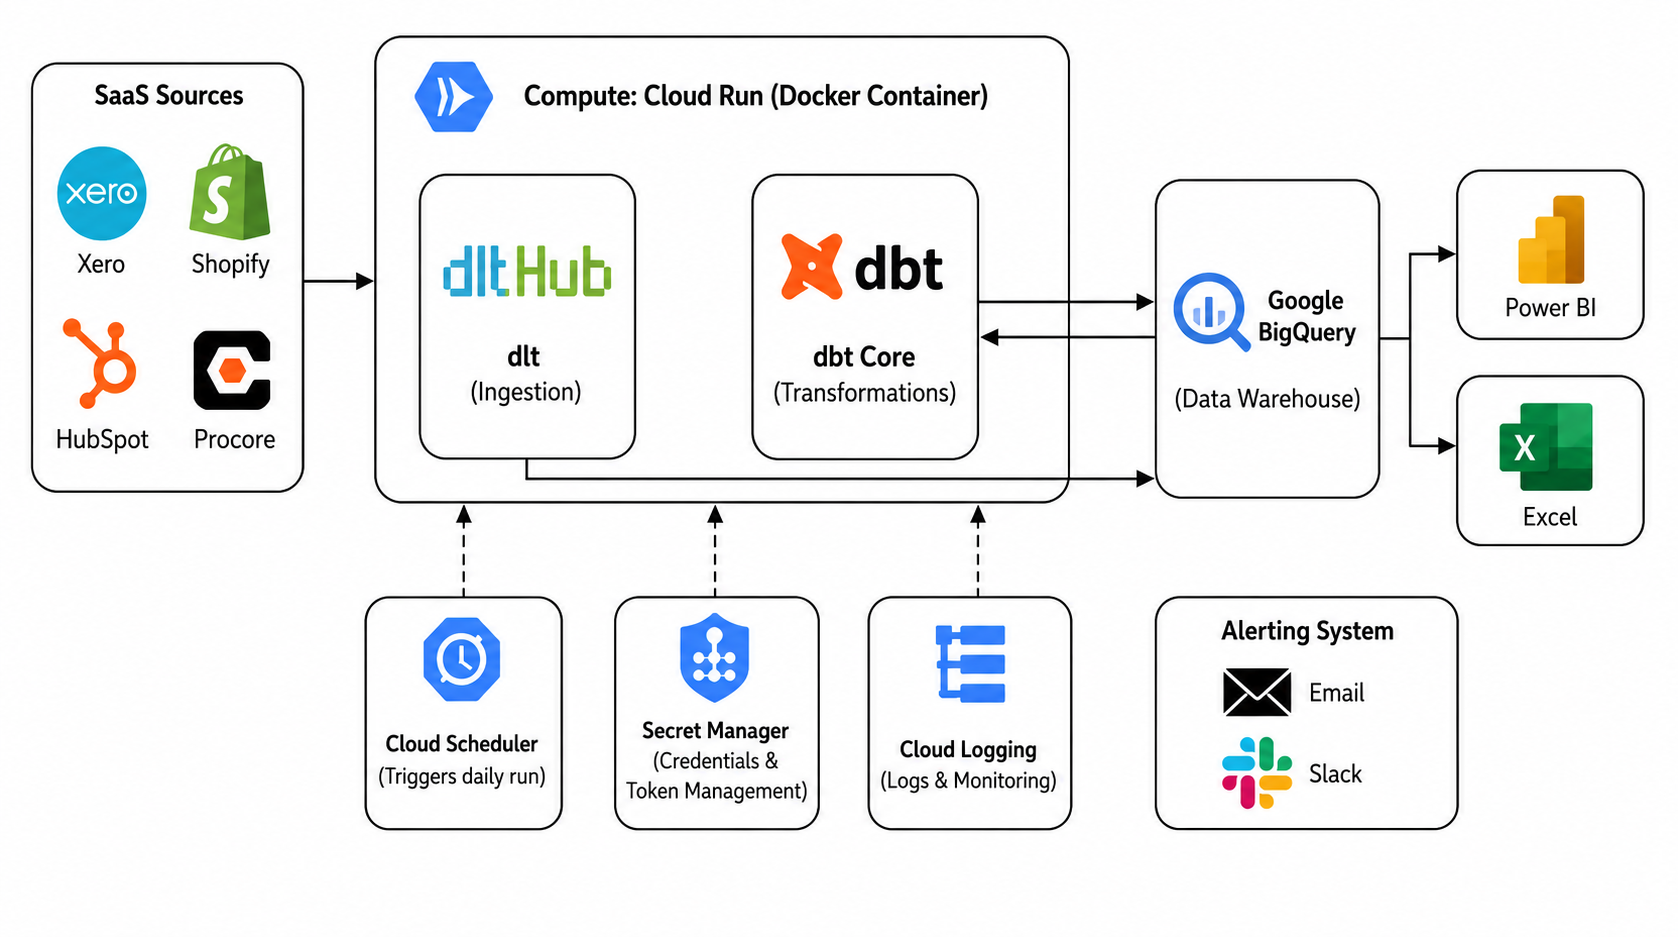
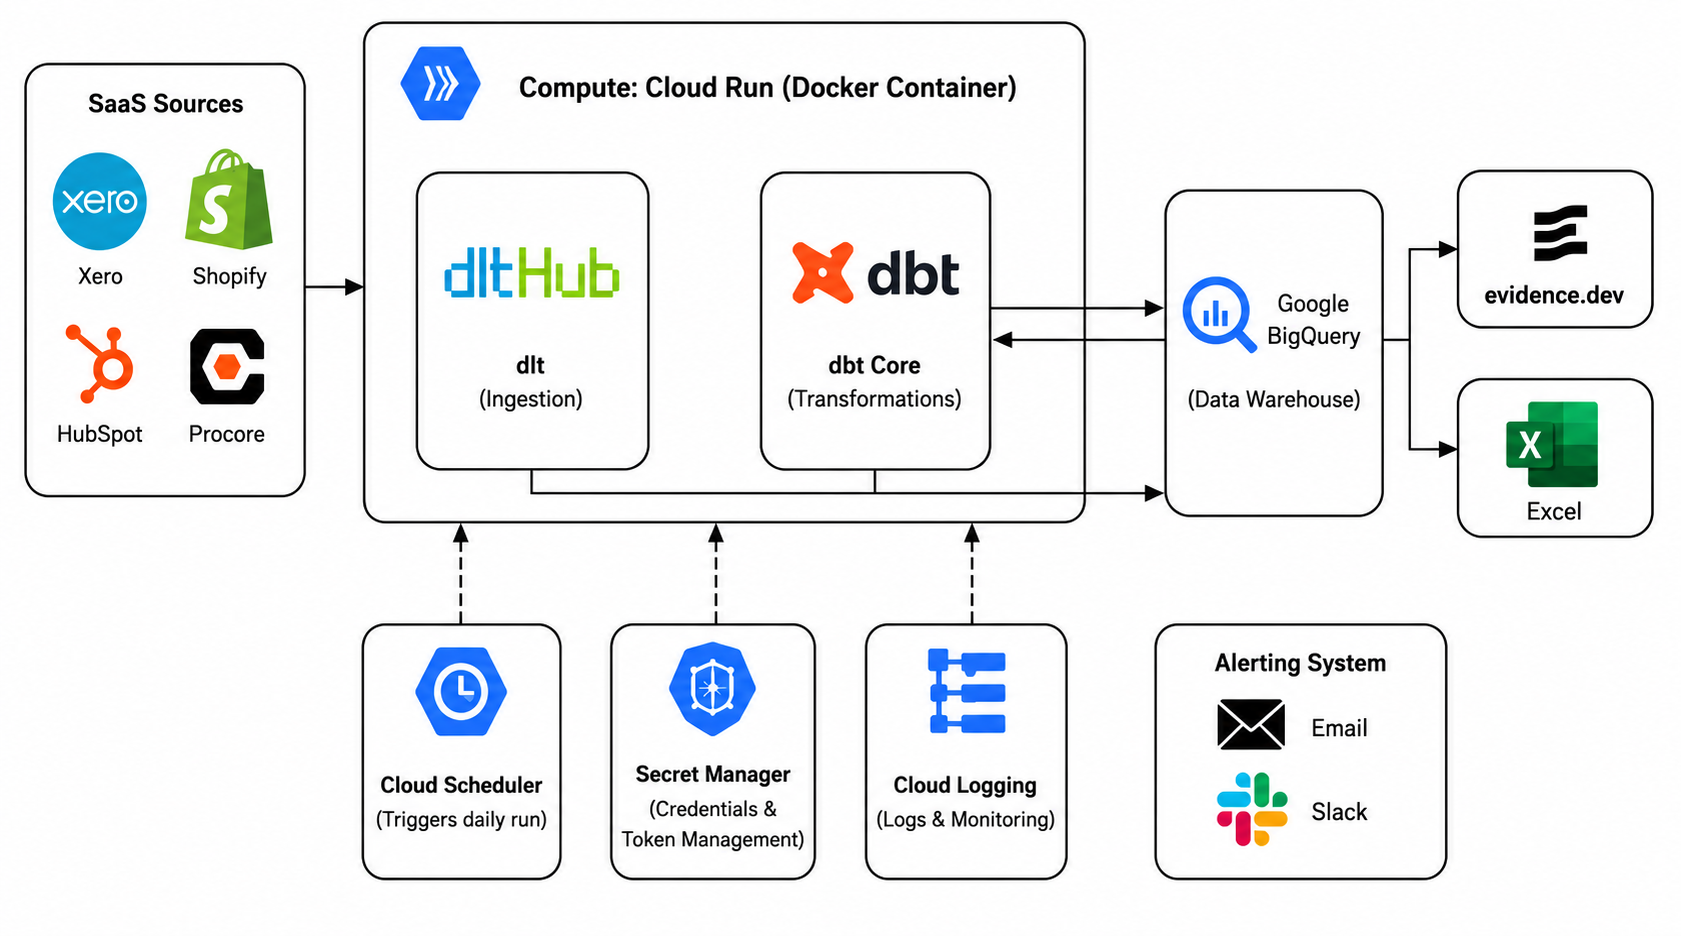
update: readme

diff --git a/README.md b/README.md
@@ -1,46 +1,78 @@
-# Multi-Source SaaS Serverless ELT Pipeline & BI Dashboard
+# Multi-Source SaaS ELT Pipeline & BI Dashboard
 
-A production-ready, parallel ingestion, transformation, and BI dashboard pipeline for **HubSpot**, **Xero**, **Shopify**, and **Procore** data powered by `dlt`, `dbt Core`, and `Evidence.dev`.
+A code-first data pipeline integrating **HubSpot**, **Xero**, **Shopify**, and **Procore** into **Google BigQuery** (Cloud) and **PostgreSQL** (Local), modeled with `dbt Core` and visualized using `Evidence.dev`.
 
-![DLT Pipeline Architecture](dtl-pipeline-multi-saas.png)
-
----
-
-## 🚀 Overview
-
-A cost-effective serverless ELT solution that centralizes client data from SaaS APIs into **Google BigQuery** (Production) or **PostgreSQL** (Local Development), eliminating expensive monthly third-party connector subscriptions (e.g. Fivetran, Stitch).
-
-### Core Capabilities
-* **Zero Third-Party Fees**: Uses open-source `dlt` for schema evolution and parallel API ingestion.
-* **In-Database SQL Transformations**: Orchestrates post-load `dbt Core` builds to clean raw data and populate downstream reporting marts.
-* **Embedded BI Dashboard**: Includes `Evidence.dev` markdown-based analytical cockpit with zero-latency custom slicers and dynamic cross-filtering.
-* **OAuth 2.0 Self-Rotation**: Automatically refreshes and persists Xero and Procore OAuth tokens to `.dlt/secrets.toml` and GCS Token Vault.
-* **Preflight Connection Resilience**: Validates credentials before running, gracefully skipping failing sources to keep other ingestions online.
-* **Slack & Email Observability**: Automated notifications with row counts, dbt test results, and critical failure alerts.
-* **GCP Serverless Deployment**: Containerized with Docker on GCP Cloud Run Jobs, triggered on-demand or via Cloud Scheduler.
+![Pipeline Architecture](docs/assets/pipeline_architecture.png)
 
 ---
 
-## 📁 Repository Structure
+## Operational Context
+
+### The Fictional Business
+A modular storage, millwork, and outdoor-structures manufacturer that sells kits online through Shopify, sells to builders and dealers through HubSpot, and installs larger orders on site.
+
+### System Roles
+* **Shopify**: Direct-to-consumer (D2C) e-commerce storefront for modular storage and joinery kits.
+* **HubSpot CRM**: Inbound pipeline, quotes, and contract management for regional builders and dealer networks.
+* **Procore (Field Delivery & Transition to Wrike)**: 
+  Originally adopted to manage onsite installation delivery. Because Procore is built for general contractors, it is heavy for a company whose real work is production, marketing launches, and install scheduling. The company is actively migrating project operations to Wrike.
+  * **Why active data remains in Procore**: Active install jobs stay in Procore until closeout because moving in-flight RFIs, submittals, and change orders mid-project introduces operational risk.
+  * **Closed projects**: Remain in Procore as the historical system of record for warranty claims and audit trails.
+  * **New projects**: Scheduled and launched in Wrike.
+* **Xero**: Financial system of record for progress billings, accounts receivable aging, and invoice payment collections.
+
+### Customer and Project Mapping
+Because SaaS tools generate independent primary keys, `seed_project_mapping.csv` functions as a lookup table:
+It maps the real customer accounts extracted from Xero (such as *Ridgeway University* and *Hamilton Smith Ltd*) to their corresponding Procore installation codes (*PRJ-1000*, *PRJ-1001*) and operational business units.
+
+```text
+HubSpot Deal (Contract Booking)
+       │
+       ▼
+Procore Project (Field Delivery & Milestones)
+       │
+       ▼
+Xero Invoices (Progress Billings & Cash Collection)
+       │
+       ▼
+Shopify Orders (Parallel D2C Channel)
+```
+
+### Data Sources & Coverage
+
+| System | Role in Business | Extracted Entities | Data Origin |
+| :--- | :--- | :--- | :--- |
+| **HubSpot CRM** | Inbound leads, contracts & pipeline | Deals, Companies, Contacts | Live API + Backfill |
+| **Procore** | Construction & project delivery | Projects, Companies, Users | Live API + Backfill |
+| **Xero** | Progress billings & receivables | Invoices, Contacts, Line Items | Live API + Backfill |
+| **Shopify** | Online modular storage & joinery kits | Products, Variants, Orders | Live API |
+
+* **Data Coverage**: Real SaaS API records start from **June 2026**. Pre-June 2026 history is backfilled using phased project estimates tied to the 14 client accounts in `seed_project_mapping.csv`.
+
+---
+
+## Repository Structure
 
 ```text
 .
-├── .dlt/
-│   ├── config.toml      # Master Control Panel (pipeline toggles, active resources)
-│   └── secrets.toml     # Sensitive credentials & OAuth tokens (git-ignored)
-├── dbt_transform/       # dbt models for staging, intermediate, and marts layers
-├── evidence_dashboard/  # Evidence.dev BI dashboard (pages, components, queries)
+├── .agents/             # Agent rules and coding guidelines
+├── .dlt/                # Pipeline toggles and credentials (git-ignored)
+├── dbt_transform/       # dbt models, macros, seeds, and schema tests
+├── deploy/              # Cloud deployment configs (Cloud Monitoring alert policy)
+├── docs/                # Architecture docs, runbooks, and diagrams
+├── evidence_dashboard/  # Evidence.dev dashboard (pages, components, queries)
 ├── runners/             # Python execution orchestrators (parallel run_all.py)
-├── scripts/             # Unified CLI (pipeline.sh) & OAuth helper scripts
+├── scripts/             # Helper scripts (OAuth fix, secret deployment, seed data)
 ├── sources/             # dlt source extractors (HubSpot, Xero, Shopify, Procore)
-├── utils/               # Secret manager, logger, retry handler, Slack notifier
-├── Dockerfile           # Production container specification for GCP Cloud Run
-└── README.md            # Master repository documentation
+├── utils/               # Shared helpers (retry handler, logger, secret manager, Slack notifier)
+├── Dockerfile           # Container specification for local Docker or Cloud Run execution
+├── pipeline.sh          # Unified entrypoint CLI
+└── README.md            # Repository documentation
 ```
 
 ---
 
-## 🛠 Quick Start & Usage
+## Quick Start & Usage
 
 ### 1. Environment Setup
 
@@ -52,99 +84,69 @@ poetry install
 cp .dlt/secrets.toml.example .dlt/secrets.toml
 ```
 
-### 2. Unified Pipeline CLI (`scripts/pipeline.sh`)
+### 2. Unified Pipeline CLI (`pipeline.sh`)
 
-All local and cloud operations are managed through the single `scripts/pipeline.sh` CLI:
+All local and cloud operations are managed through `./pipeline.sh`:
 
 ```bash
 # Full Local Pipeline (Extract APIs -> Local Postgres -> Run & Test dbt)
-bash scripts/pipeline.sh dev
+bash pipeline.sh dev
 
-# Fast dbt Model Iteration (No slow API extraction, runs dbt in ~2s)
-bash scripts/pipeline.sh dbt dev                            # All models against Local Postgres
-bash scripts/pipeline.sh dbt dev --select fct_executive_cockpit  # Specific model
-bash scripts/pipeline.sh dbt prod                           # Validate directly against BigQuery
+# Fast dbt Model Iteration (Skips API extraction, runs dbt in ~2s)
+bash pipeline.sh dbt dev                            # All models against Local Postgres
+bash pipeline.sh dbt dev --select fct_executive_cockpit  # Specific model
+bash pipeline.sh dbt prod                           # Validate directly against BigQuery
 
 # Launch Evidence Dashboard
-bash scripts/pipeline.sh dashboard dev                      # Connected to Local Postgres
-bash scripts/pipeline.sh dashboard prod                     # Connected to BigQuery
+bash pipeline.sh dashboard dev                      # Connected to Local Postgres
+bash pipeline.sh dashboard prod                     # Connected to BigQuery
 
-# Production Cloud Management (GCP)
-bash scripts/pipeline.sh auth                               # Interactive OAuth re-authorization & GCS sync
-bash scripts/pipeline.sh deploy                             # Build Docker image & update Cloud Run Job
-bash scripts/pipeline.sh prod                               # Trigger Cloud Run Job execution on GCP
+# Cloud Run Management (GCP)
+bash pipeline.sh auth                               # Interactive OAuth re-authorization & GCS sync
+bash pipeline.sh deploy                             # Build Docker image & update Cloud Run Job
+bash pipeline.sh prod                               # Trigger Cloud Run Job execution on GCP
 ```
 
 ---
 
-## 📊 Data Transformation Layer (`dbt Core`)
+## Analytical Marts Inventory
 
-Raw schemas extracted by `dlt` are transformed inside your data warehouse following dbt best practices:
-
-```text
-dlt (Extract + Load)
-  └── Raw Schemas (hubspot, xero, shopify, procore)
-        └── Staging Views (stg_*)      → Clean column names, cast types
-              └── Intermediate Views (int_*) → Deduplicate, union sources
-                    └── Mart Tables (fct_*, dim_*) → Analytical reporting tables
-```
-
-### Marts & Dimension Model Inventory
-
-| Layer | Model | Description |
+| Model | Layer | Description |
 | :--- | :--- | :--- |
-| **Staging** | `stg_hubspot__contacts` | HubSpot contacts & properties |
-| **Staging** | `stg_hubspot__companies` | HubSpot company records & lifecycle stages |
-| **Staging** | `stg_hubspot__deals` | HubSpot pipeline deals & monetary amounts |
-| **Staging** | `stg_procore__projects` | Procore project directory |
-| **Staging** | `stg_procore__companies` | Procore corporate accounts |
-| **Staging** | `stg_procore__users` | Procore user directory |
-| **Staging** | `stg_shopify__products` | Shopify product catalog |
-| **Staging** | `stg_shopify__variants` | Shopify product variants & inventory pricing |
-| **Staging** | `stg_xero__invoices` | Xero financial invoices & billing status |
-| **Staging** | `stg_xero__line_items` | Xero invoice line items |
-| **Staging** | `stg_xero__contacts` | Xero billing contacts |
-| **Intermediate** | `int_all_revenue` | Unified revenue stream (HubSpot deals + Xero invoices) |
-| **Intermediate** | `int_contacts_deduped` | Master golden contact record across CRM & ERP |
-| **Marts** | `fct_executive_cockpit` | Consolidated executive cockpit mart for BI dashboard |
-| **Marts** | `fct_pipeline` | CRM deal pipeline metrics with portable ANSI typecasting |
-| **Marts** | `fct_revenue` | Fact revenue table with calendar period granularity |
-| **Marts** | `dim_customers` | Customer dimension with surrogate key hashing |
-| **Marts** | `dim_products` | Product dimension across Shopify catalog |
-| **Marts** | `dim_projects` | Project dimension across Procore accounts |
+| `fct_executive_cockpit` | Mart | Monthly cash flow, realized gross profit, margin fade, cycle time, and diagnostic health flags |
+| `fct_revenue` | Mart | Granular billing transactions with calendar dimensions and data origin tracking |
+| `fct_pipeline` | Mart | CRM deal stages, pipeline amounts, and win/loss reasons |
+| `dim_projects` | Mart | Unified project directory across active Procore jobs and historical phases |
+| `dim_customers` | Mart | Customer records deduplicated across CRM and accounting |
+| `dim_products` | Mart | Shopify product catalog, variants, and pricing |
 
 ---
 
-## 📈 BI Dashboard (`Evidence.dev`)
+## Executive BI Dashboard (`Evidence.dev`)
 
-The BI dashboard is built with Evidence.dev and deployed automatically to GitHub Pages.
+Built with Evidence.dev, featuring 3 operational pages with 21 automated data quality tests passing across both PostgreSQL (`dev`) and Google BigQuery (`prod`):
 
-* **Environment Authentication**: Evidence authenticates via environment variables (`PGPASSWORD` for Postgres, Application Default Credentials for BigQuery).
-* **Production CI/CD**:
-  * Push to `dev` branch → Deploys preview dashboard to GitHub Pages (`/dev/overview`).
-  * Merge to `main` branch → Deploys production dashboard to GitHub Pages (`/overview`).
+### 1. Executive Cockpit (`/overview`)
+* **Monthly Cash Flow**: Billed revenue (Xero) vs. job costs (Procore) vs. realized gross profit line.
+* **Margin Fade**: Sold quote margin benchmark vs. actual realized gross margin with auto-scaled variance tracking.
+* **Forward Demand & Backlog**: Weighted CRM pipeline (HubSpot) vs. unbilled delivery schedule (Procore), reactive to MTD/QTD/YTD slicers.
+* **Lead to Cash Cycle Time**: Dynamic cycle days by business unit modulated by seasonal throughput factors.
+* **Diagnostic Health Flags**: Overdue accounts receivable (Xero), stalled deals (HubSpot), and active unbilled delivery backlog (Procore).
+
+### 2. Sales & Win-Loss (`/sales`)
+* Deal stage conversion rates, loss reason breakdown, and top client concentration.
+
+### 3. Operations & Delivery (`/operations`)
+* Procore project status tracking, active unbilled WIP completion, and Shopify inventory pricing.
 
 ---
 
-## 🔑 Source API Authorization Setup
+## Execution Modes & Known Gaps
 
-Each source requires initial configuration in `.dlt/secrets.toml`:
+* **Local Development**: Runs via Python or Docker against PostgreSQL.
+* **Cloud Execution**: Containerized job on GCP Cloud Run executed via `pipeline.sh cloud` loading to BigQuery.
 
-### HubSpot
-1. Create a Private App in HubSpot and copy the Access Token.
-2. Set `api_key` under `[sources.hubspot]` in `.dlt/secrets.toml`.
-
-### Xero
-1. Register an application at [developers.xero.com](https://developers.xero.com).
-2. Set Redirect URI to `http://localhost:8080/callback`.
-3. Run `bash scripts/pipeline.sh auth` (select Xero) once to authorize. Token rotation is fully automatic thereafter.
-
-### Procore
-1. Register an application at [developers.procore.com](https://developers.procore.com).
-2. Set Redirect URI to `http://localhost:8080/callback`.
-3. Install the app in Procore Company Admin.
-4. Run `bash scripts/pipeline.sh auth` (select Procore) once to complete OAuth handshake.
-
-### Shopify
-1. Create a Custom App in Shopify Admin under App Development.
-2. Copy Admin API Access Token and Store URL into `[sources.shopify]` in `.dlt/secrets.toml`.
+### Roadmap
+- [ ] **Infrastructure as Code**: Provision Cloud Run, Cloud Scheduler, and GCS using Terraform instead of manual `gcloud` CLI commands.
+- [ ] **Automated CI/CD**: Automate container image build and Cloud Run job updates on git push (currently deployed via CLI).
+- [ ] **Python Orchestrator**: Replace the bash runner (`pipeline.sh`) with a Python runner for cleaner error handling and alerts.
